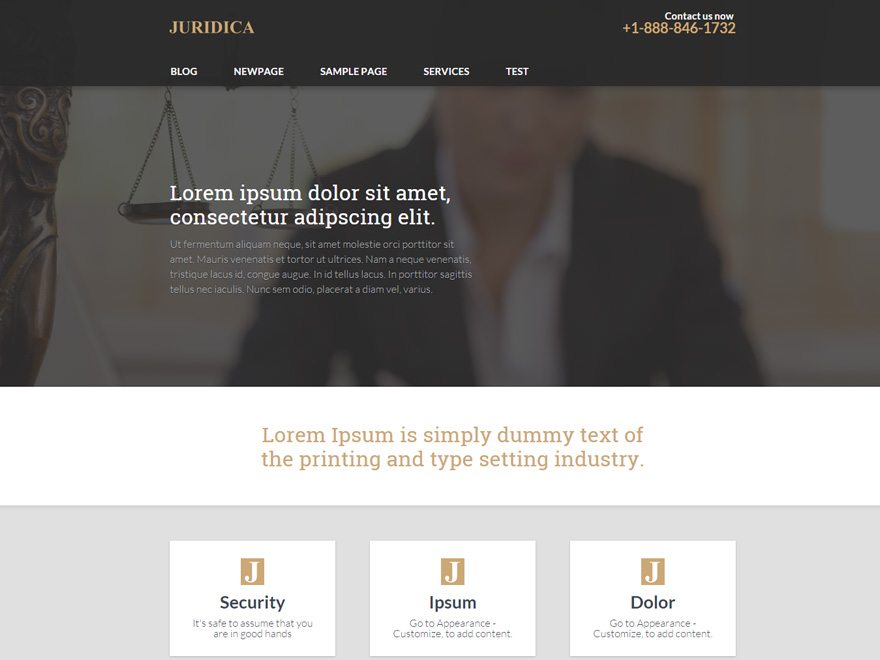
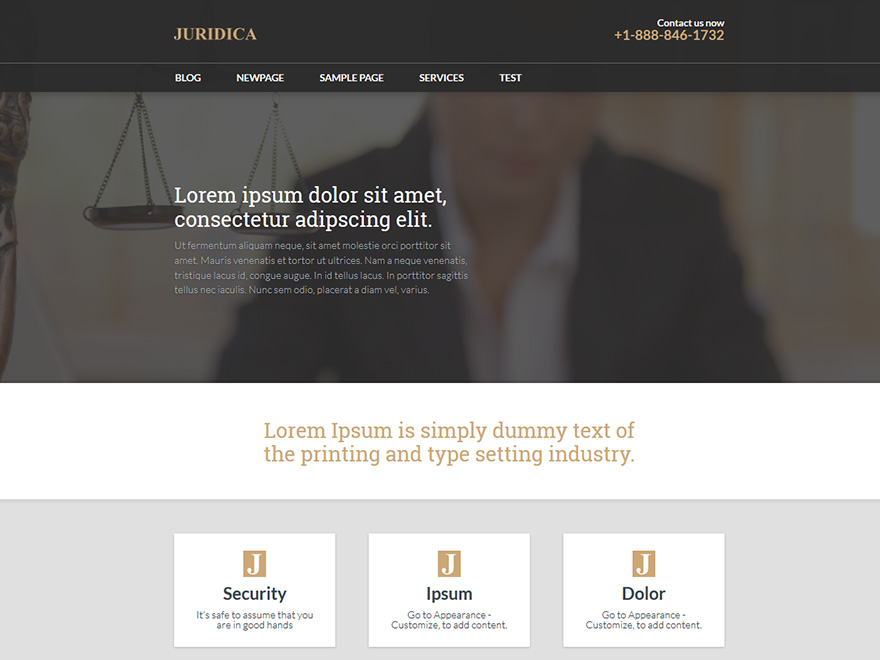
Feedback Changes
Removed comments
Fixed functions and script name
Updated screenshot

diff --git a/style.css b/style.css
@@ -20,14 +20,10 @@ General
 /* HEADER */
 
 .wrap-elements{
-
-
 	background: none repeat scroll 0% 0% rgba(42, 42, 42, 0.94) !important;
 	box-shadow: 0px 5px 11px 0px rgba(50, 50, 50, 0.4);
-	/* header opacity */
-	position: absolute;
+    position: absolute;
 	width: 100%;
-
 }
 
 
@@ -35,6 +31,7 @@ General
     width: 100%;
     margin: 0px;
     background: none;
+    border-bottom: 1px solid #626262;
 }
 	
 
@@ -75,6 +72,7 @@ General
 .wrapper h3{
     color: #3B3126 !important;
 }
+
 
 .header-contact {
     margin-top: 30px;
@@ -239,8 +237,6 @@ nav li a:hover {
 }
 
 
-
-
 /* FOOTER */
 
 #footer .footer-box .searchform input#searchsubmit {
@@ -296,8 +292,6 @@ nav li a:hover {
    
 }
 
-
-
 #footer .footer-box .footer-socials a.social-button {
     line-height: 19px;
     color: #FFF !important;
@@ -306,11 +300,3 @@ nav li a:hover {
     background: #cca876 !important;
 }
 
-/* COLOR Palette */
-/*
-
-gold: #cca876;
-gri inchis: #2c2c2c;
-
-
-*/

diff --git a/functions.php b/functions.php
@@ -6,29 +6,22 @@ function theme_enqueue_styles() {
 
     wp_enqueue_style( 'parent-style', get_template_directory_uri() . '/style.css' );
 	// Loads our main stylesheet.
-	wp_enqueue_style( 'juridica-child-style', get_stylesheet_uri(), array('style'), 'v1' );
+	wp_enqueue_style( 'juridica-child-style', get_stylesheet_uri(), array('parent-style'), 'v1' );
 
 }
 
 
 function juridica_custom_script_fix()
 {
-//  wp_enqueue_script('lawyeria_script_child', get_stylesheet_directory_uri() .'../juridica/js/wrapall.js', array(''), '201202067', true); 
-
-	//wp_register_script('lawyeria_script_child', get_stylesheet_directory_uri().'/js/wrapall.js', array('jquery') );
     wp_enqueue_script('lawyeria_script_child');
-	
-	wp_enqueue_script('lawyeria_script_child', get_stylesheet_directory_uri().'/js/wrapall.js', array('jquery') );
-	wp_enqueue_script('juridica-nicescroll',get_stylesheet_directory_uri().'/js/jquery.nicescroll.js',array('jquery'),'12121',true);
+	wp_enqueue_script('lawyeria_script_child',     get_stylesheet_directory_uri().'/js/wrapall.js', array('jquery') );
+	wp_enqueue_script('juridica-nicescroll',   	   get_stylesheet_directory_uri().'/js/jquery.nicescroll.js',array('jquery'),'12121',true);
     wp_enqueue_script('juridica-nicescroll-script',get_stylesheet_directory_uri().'/js/juridica-nicescroll.js',array('jquery','juridica-nicescroll'),'12121',true);	
-	
 }
 
 add_action( 'wp_enqueue_scripts', 'juridica_custom_script_fix', 100 );
 
-
-
-function my_inline_styles()
+function juridica_inline_styles()
 		{
 		?>
 		<style type="text/css">
@@ -46,4 +39,4 @@ function my_inline_styles()
 		<?php
 		}
 
-add_action("wp_head","my_inline_styles");
+add_action("wp_head","juridica_inline_styles");
